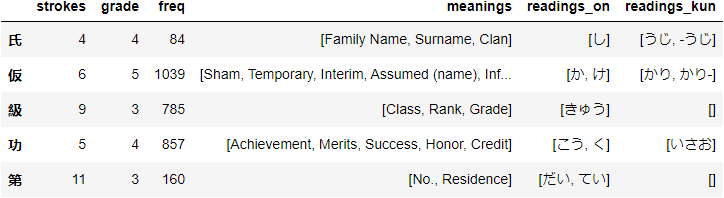
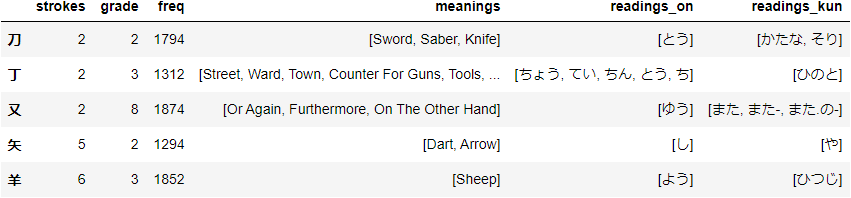
config and os env

diff --git a/main.py b/main.py
@@ -1,19 +1,18 @@
+import os
 import discord
 from discord.ext import commands, tasks
+
 import kanji_reader
+import config as CONFIG
 
 bot = commands.Bot("!")
-
-TARGET_CHANNEL_ID = 586069902427947018
-KANJI_AMOUNT = 5
-
 todays_number = 1
 
 @tasks.loop(seconds=10)
 async def called_once_a_day():
-    message_channel = bot.get_channel(TARGET_CHANNEL_ID)
+    message_channel = bot.get_channel(CONFIG.TARGET_CHANNEL_ID)
     global todays_number
-    kanji_of_the_day_markdown = kanji_reader.generate_todays_kanji_(todays_number, KANJI_AMOUNT)
+    kanji_of_the_day_markdown = kanji_reader.generate_todays_kanji_(todays_number, CONFIG.KANJI_AMOUNT)
     print(f"Sending day {todays_number} on channel {message_channel}")
     await message_channel.send(file=discord.File('Todays_Kanji.png'))
     todays_number = todays_number + 1
@@ -25,4 +24,5 @@ async def before():
     print("Bot is running")
 
 called_once_a_day.start()
-bot.run("ODYxMTg3MjE4OTkwOTU2NTQ1.YOGJGQ.GKH_4C_ySG9nVbdZHwEbN4RwGJ4")
+print("INFO: token is "+ str(os.environ['DISCORD_BOT_TOKEN']))
+bot.run(os.environ['DISCORD_BOT_TOKEN'])

diff --git a/kanji_reader.py b/kanji_reader.py
@@ -1,10 +1,9 @@
 import pandas as pd
 import dataframe_image as dfi
-
-JLPT_LEVEL = 1
+import config as CONFIG
 
 kanji_df = pd.read_json('kanji.json').T
-n1_df = kanji_df.loc[kanji_df['jlpt_new'] == JLPT_LEVEL]
+n1_df = kanji_df.loc[kanji_df['jlpt_new'] == CONFIG.JLPT_LEVEL]
 n1_df = n1_df[["strokes","grade","freq","meanings","readings_on","readings_kun"]]
 
 def generate_todays_kanji_(todays_day_number, KANJI_AMOUNT):

diff --git a/config.py b/config.py
@@ -1,0 +1,4 @@
+#TOKEN = e.g. "ODYxMTg3MjE4OTkwOTU2NTQ1.YOGJGQ.GKH_4C_ySG9nVbdZHwEbN4RwGJ4", this token is revoked :)))
+#TARGET_CHANNEL_ID = 586069902427947018
+JLPT_LEVEL = 1
+KANJI_AMOUNT = 5
